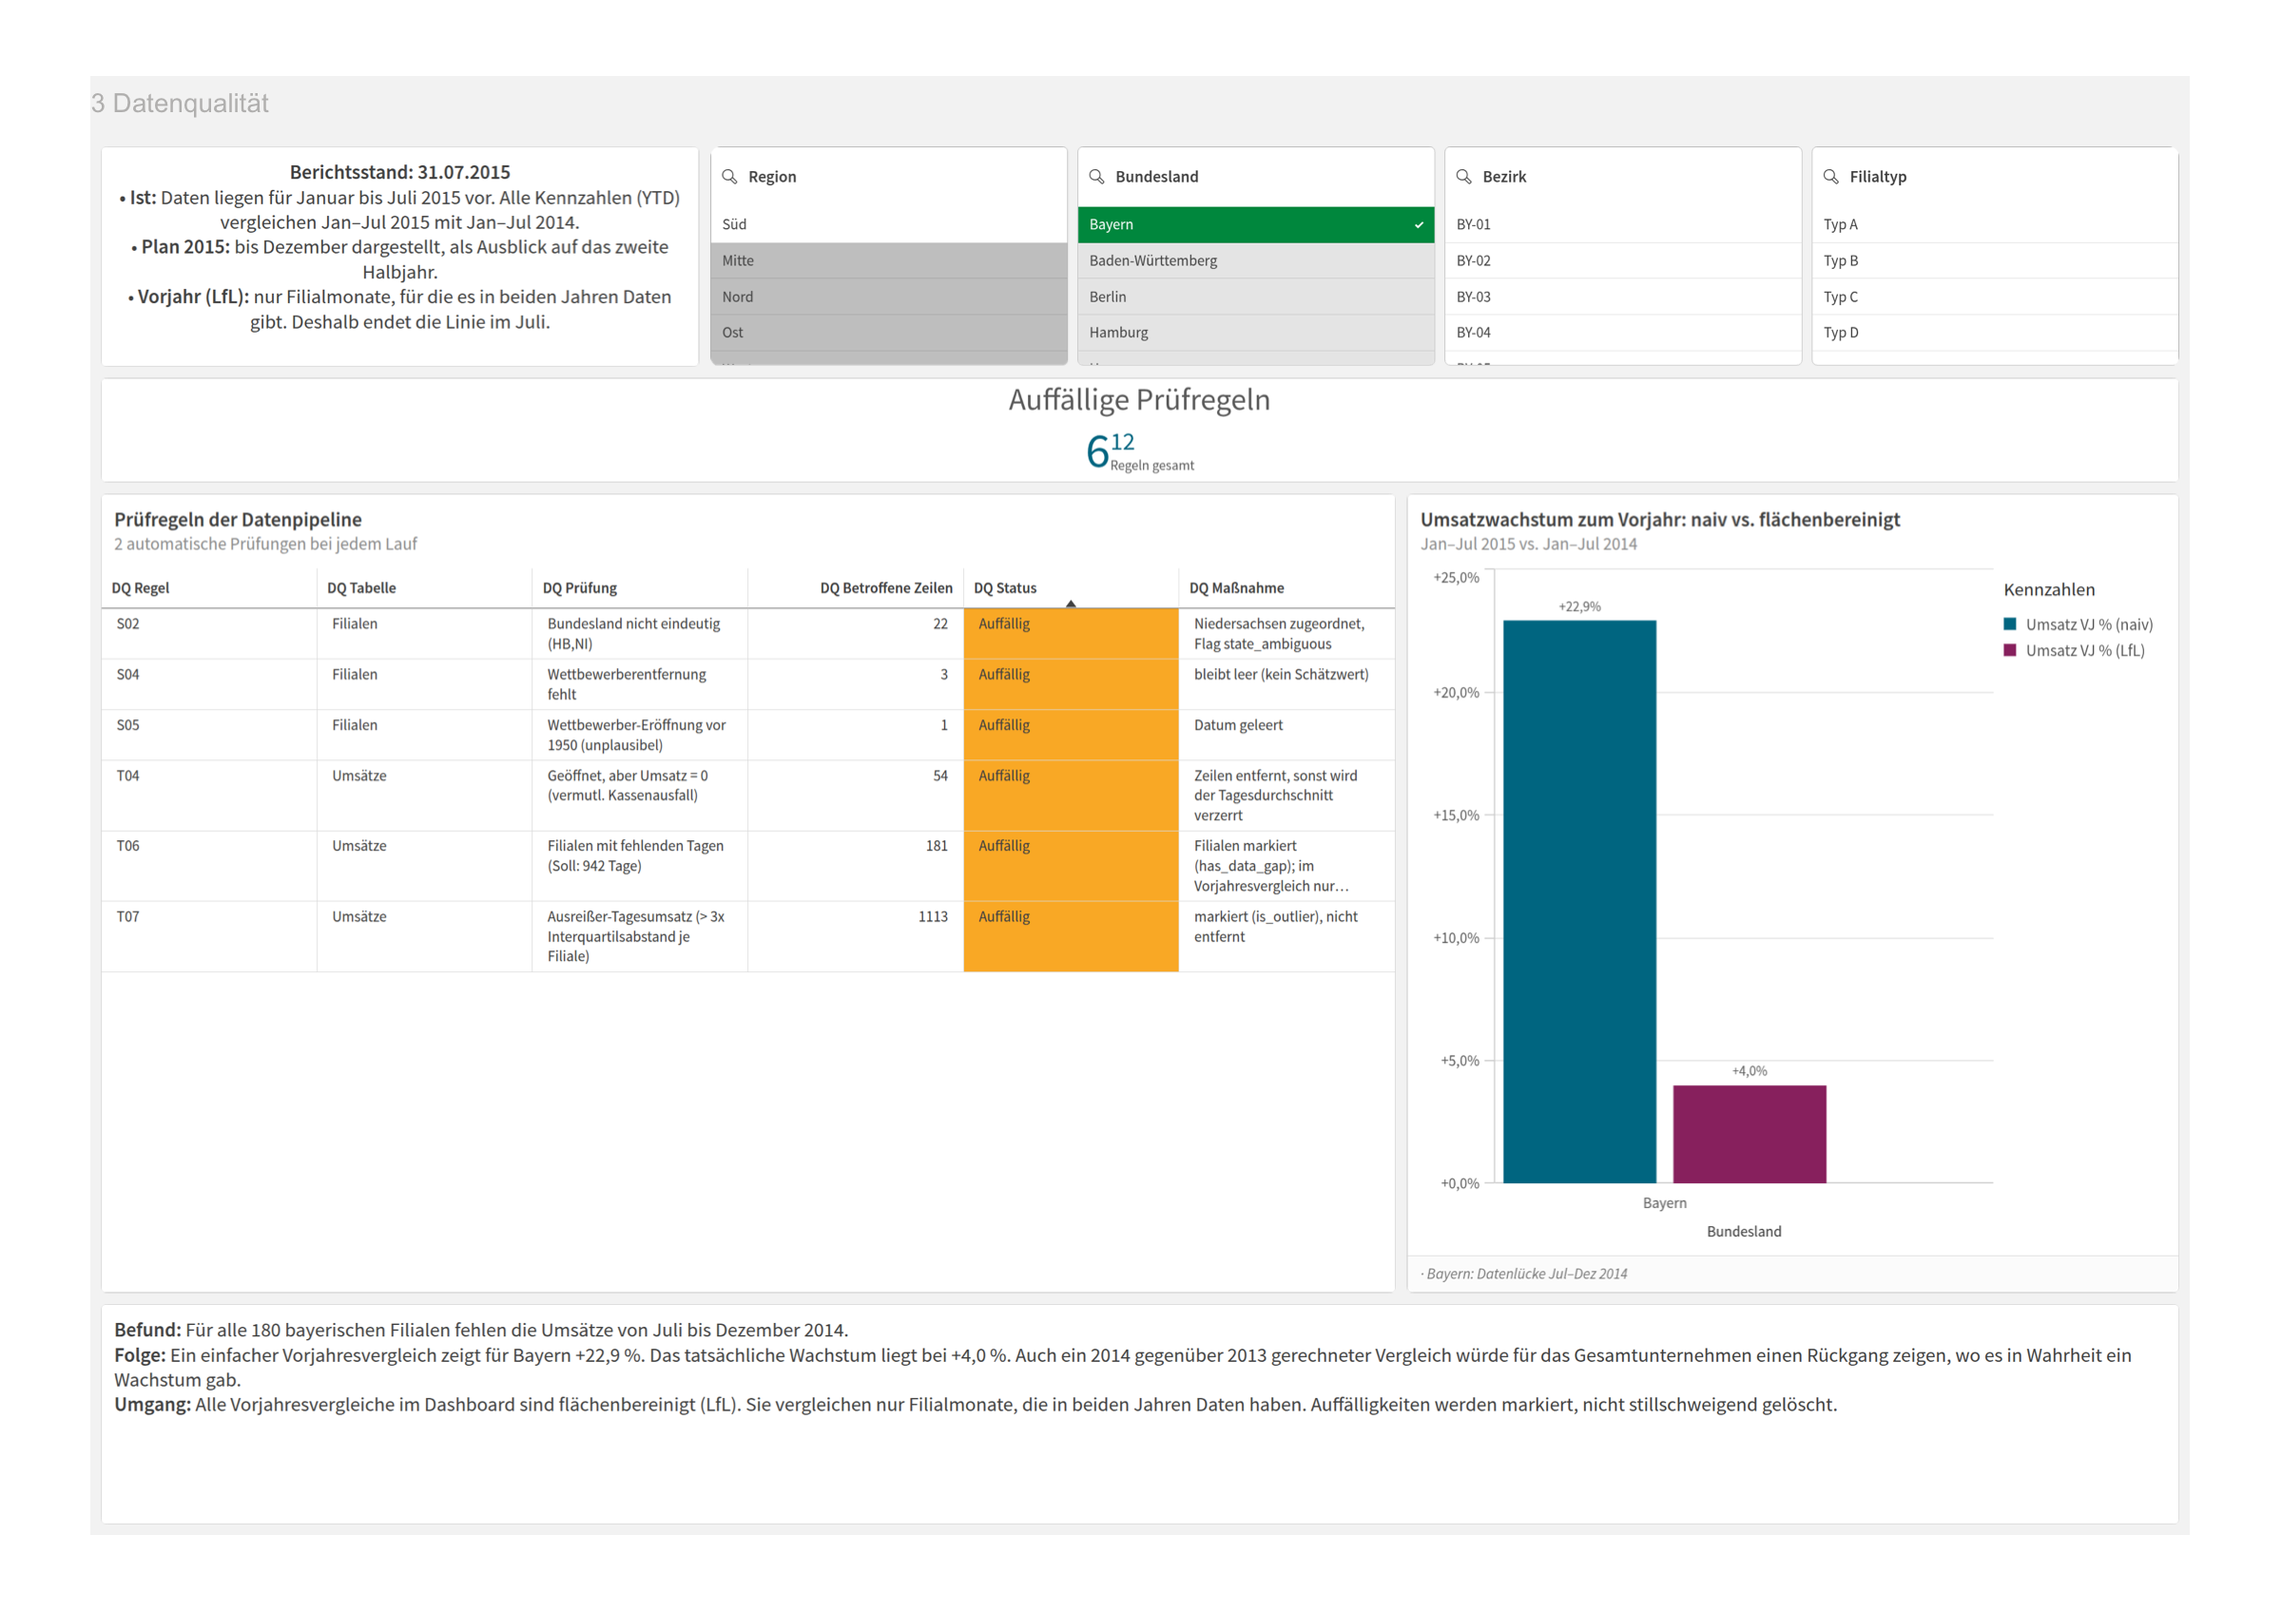
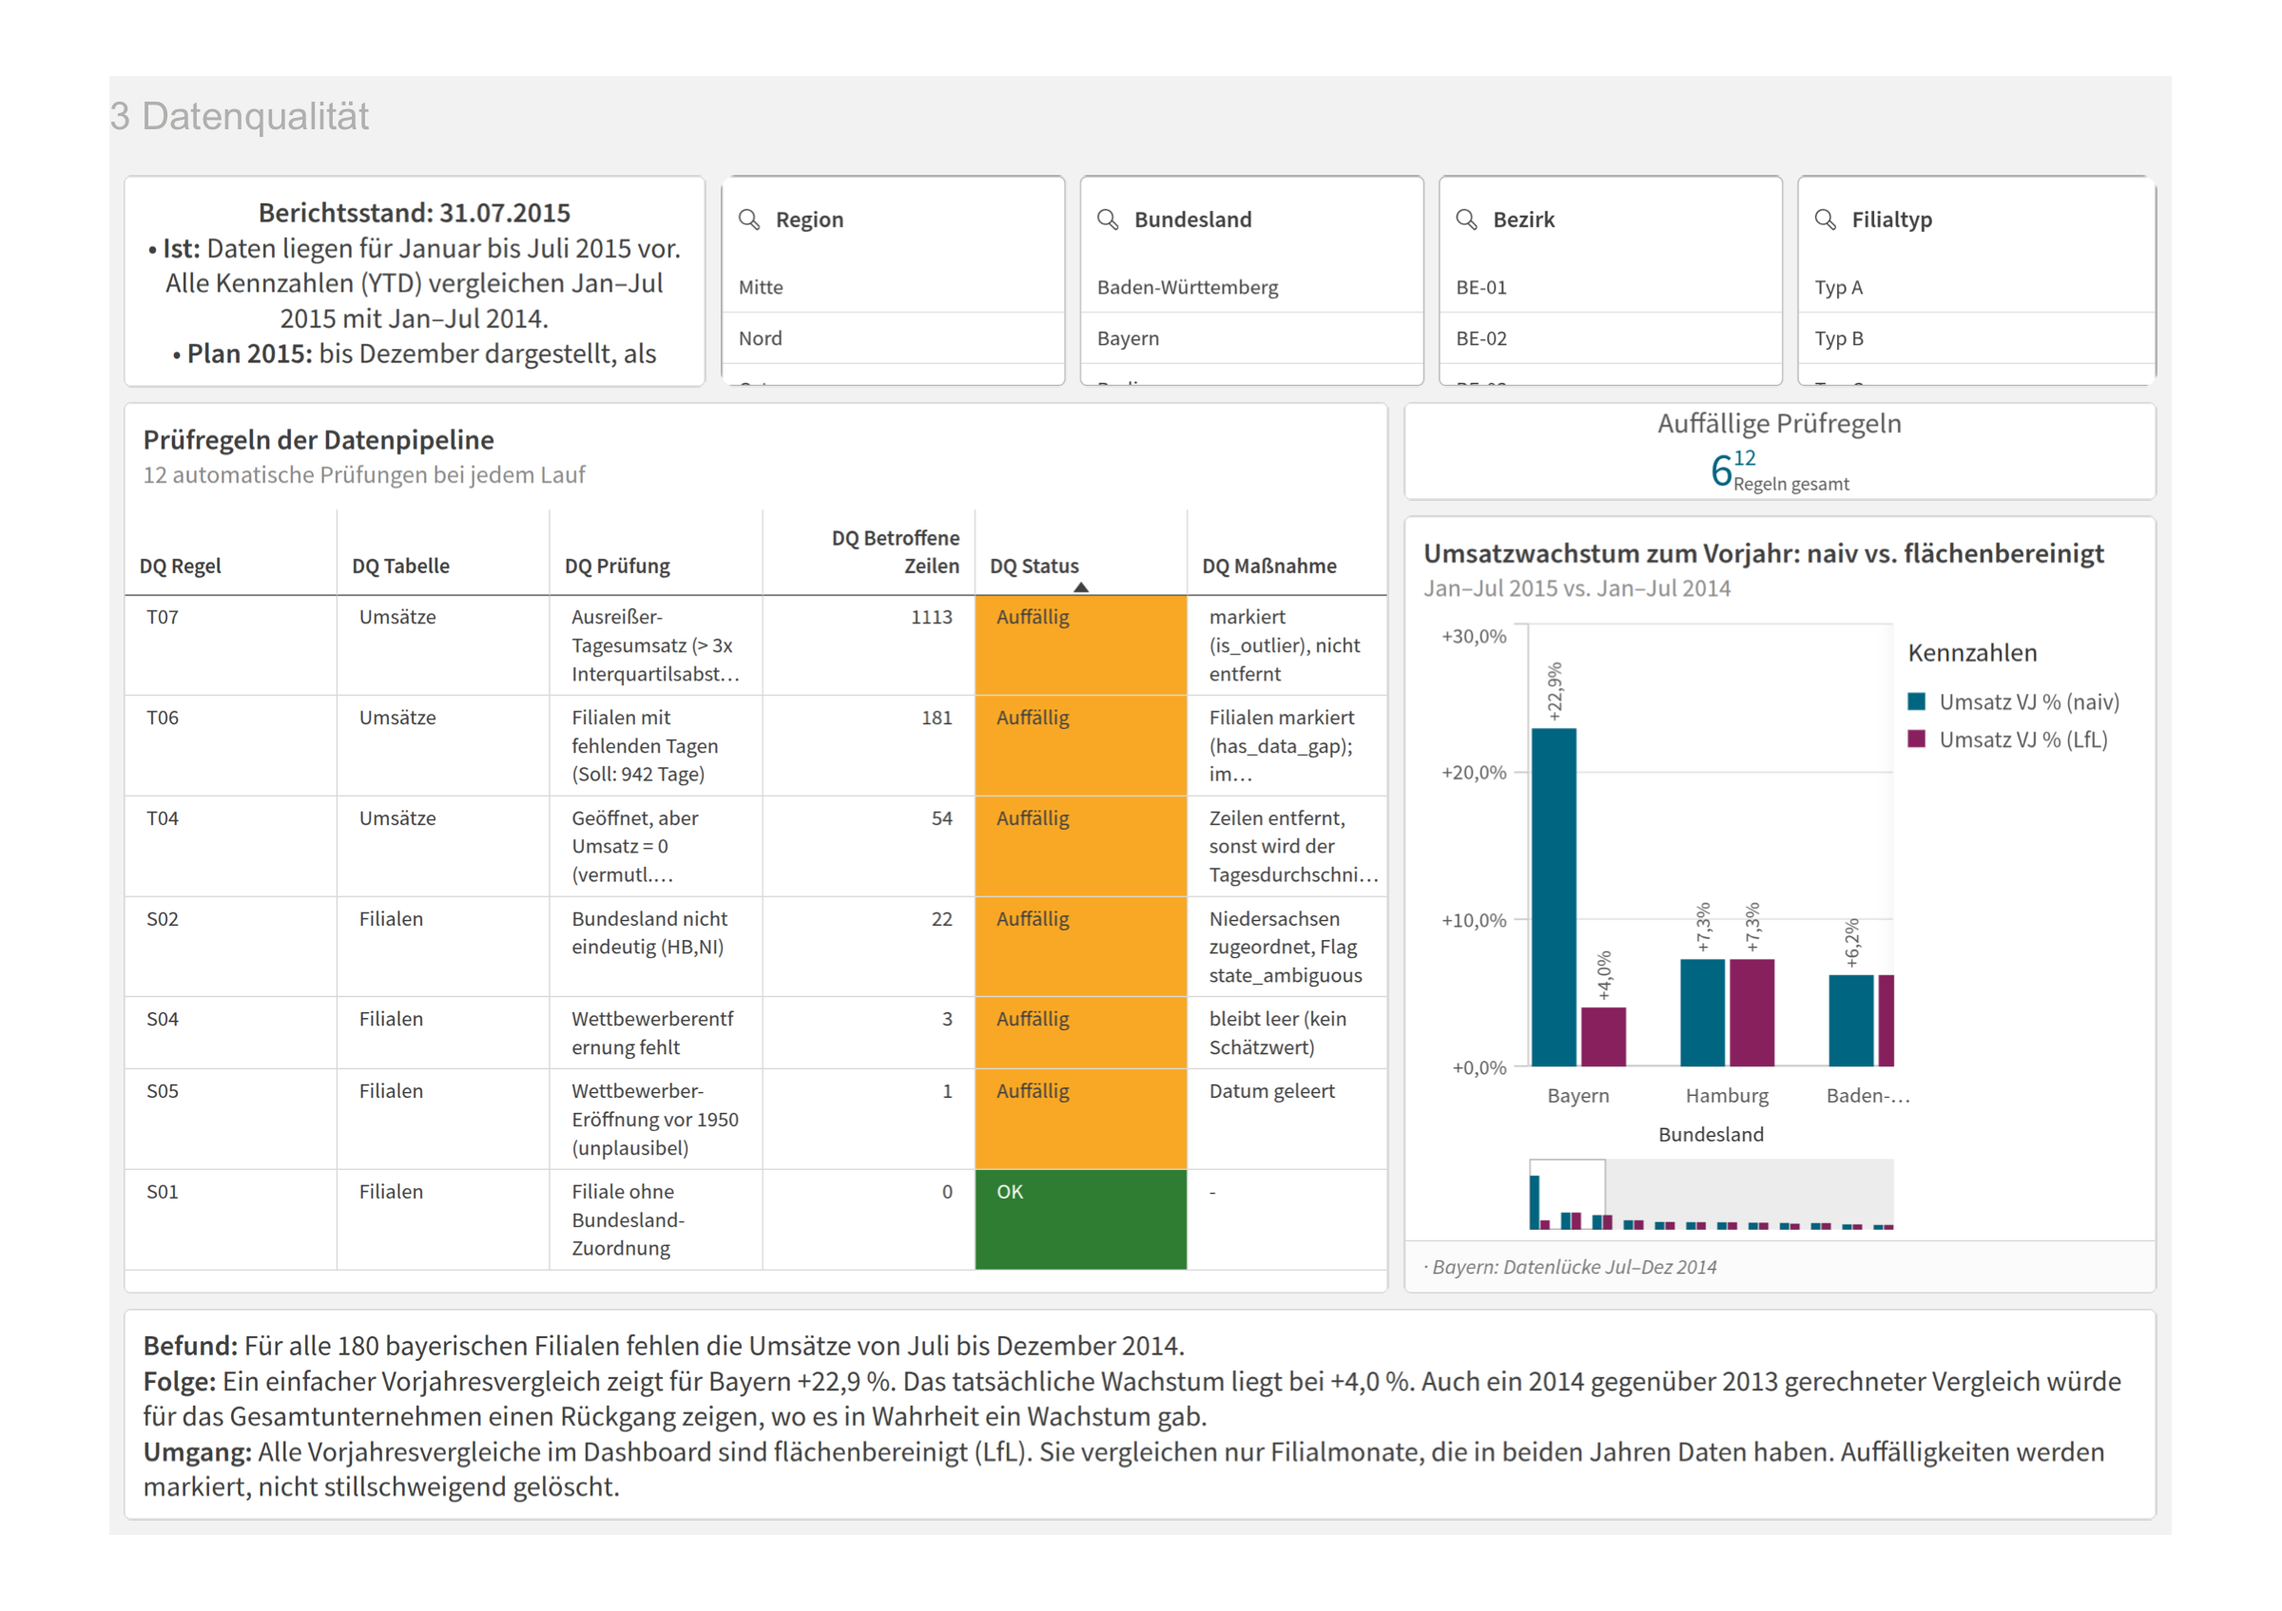
README präzisiert, Screenshot Datenqualität aktualisiert, KI-Aufruf vereinfacht

diff --git a/src/commentary.py b/src/commentary.py
@@ -97,13 +97,10 @@ def llm_comment(client, k: pd.Series) -> str:
         "schwaechste_filiale": {"name": k.weakest_store, "abweichung_plan": round(k.weakest_store_plan_dev, 4)},
         "staerkste_filiale": {"name": k.strongest_store, "abweichung_plan": round(k.strongest_store_plan_dev, 4)},
     }
-    response = client.beta.messages.create(
+    response = client.messages.create(
         model=MODEL,
         max_tokens=2000,
         system=SYSTEM_PROMPT,
-        # bei einer Ablehnung durch Sicherheitsfilter antwortet automatisch ein Ersatzmodell
-        betas=["server-side-fallback-2026-07-01"],
-        fallbacks="default",
         messages=[{
             "role": "user",
             "content": "Kennzahlen (Anteile als Dezimalzahl, 0.012 = 1,2 %):\n"

diff --git a/README.md b/README.md
@@ -5,10 +5,11 @@
 Portfolio-Projekt: Steuerungscockpit für die Vertriebsleitung und den Außendienst einer
 Drogeriemarktkette auf Basis echter Filialdaten von **1.115 Rossmann-Filialen (2013–2015)**.
 Von der Datenaufbereitung über Datenqualitätsprüfung und Datenmodell bis zum Qlik-Dashboard
-mit Handlungsempfehlungen, ergänzt um KI-generierte Bezirkskommentare.
+mit Handlungsempfehlungen, ergänzt um automatisch erzeugte Bezirkskommentare (regelbasiert,
+optional über die Claude API).
 
 **Tools:** Qlik Sense (Ladeskript, Set Analysis, Master-Elemente) · Python (pandas) ·
-SQL (SQLite, CTEs, Fensterfunktionen) · REST-API (Open-Meteo) · Claude API · uv · Git
+SQL (SQLite, CTEs, Fensterfunktionen) · REST-API (Open-Meteo) · Claude API (optional) · uv · Git
 
 ## Fragestellungen
 
@@ -29,17 +30,18 @@ Berichtszeitraum: Januar bis Juli 2015 (YTD), Vergleich mit Januar bis Juli 2014
    Kundenrückgang im Außendienst priorisieren (Blatt *Außendienst*).
 2. **Plan knapp verfehlt (−0,6 %).** Nur Region Nord liegt über Plan (+0,3 %). Süd (−1,1 %) und
    West (−0,9 %) liegen am deutlichsten darunter. 41 von 60 Bezirken liegen unter Plan, in 36 Bezirken sinkt die Kundenzahl.
-3. **Aktionen wirken vor allem über Frequenz.** An Promo-Tagen liegt der Umsatz je Filiale 38,8 %
-   höher. Bei Filialtyp A ist der Effekt am größten (+43 % Umsatz, +26 % Kunden), bei Typ B am
-   kleinsten (+18 %).
+3. **Aktionen bringen vor allem mehr Kunden.** An Promo-Tagen liegt der Umsatz je Filiale 38,8 %
+   höher: +21 % Kunden und +15 % Durchschnittsbon. Bei Filialtyp A ist der Effekt am größten
+   (+43 % Umsatz, +26 % Kunden), bei Typ B am kleinsten (+18 %).
    → *Empfehlung:* Promo-Budget bevorzugt in Typ-A- und Typ-D-Filialen einsetzen. Da Aktionen
    Frequenz bringen, sind sie der direkte Hebel für Punkt 1.
 4. **Dauerpromotion ohne erkennbaren Nutzen.** Filialen mit Dauerpromotion („Promo2“) machen
    11 % weniger Umsatz je Tag. Das ist vermutlich ein Auswahleffekt, weil eher schwächere
    Filialen teilnehmen, und kein Beleg für Wirkung.
    → *Empfehlung:* vor einer Ausweitung mit einem Test-/Kontrollgruppen-Vergleich prüfen.
-5. **Wettbewerbsnähe = Innenstadtlage.** Filialen mit einem Wettbewerber im Umkreis von 500 m
-   setzen am meisten um, haben aber den kleinsten Bon (8,05 € gegenüber 10,38 € bei über 10 km).
+5. **Wettbewerbsnähe: hohe Frequenz, kleiner Bon.** Filialen mit einem Wettbewerber im Umkreis
+   von 500 m setzen am meisten um, haben aber den kleinsten Bon (8,05 € gegenüber 10,38 € bei über
+   10 km). Vermutlich sind das überwiegend Innenstadtlagen (Lage ist im Datensatz nicht enthalten).
    → *Empfehlung:* In Innenstadtfilialen den Bon gezielt steigern, etwa über Zweitplatzierungen
    und die Kassenzone.
 6. **Wetter hat kaum Einfluss.** An Regentagen liegt der Umsatz je Filiale nur 0,9 % niedriger
@@ -47,7 +49,7 @@ Berichtszeitraum: Januar bis Juli 2015 (YTD), Vergleich mit Januar bis Juli 2014
 
 ## Dashboard
 
-Aufbau in Qlik Sense Cloud, Schritt-für-Schritt-Anleitung: [`docs/qlik_anleitung.md`](docs/qlik_anleitung.md)
+Umgesetzt in Qlik Sense (Qlik Cloud), Ladeskript: [`qlik/load_script.qvs`](qlik/load_script.qvs)
 
 | Blatt | Inhalt |
 |---|---|
@@ -123,7 +125,7 @@ Die wichtigsten Befunde:
 Nach dem Laden prüft die Pipeline außerdem die referentielle Integrität: Jeder Umsatz hat eine
 Filiale, ein Datum und einen Wetterwert.
 
-## KI-gestützte Bezirkskommentare
+## Automatische Bezirkskommentare (KI optional)
 
 `src/commentary.py` schreibt für jeden der 60 Bezirke einen Kommentar mit drei Sätzen: Lage,
 Ursache und Handlungsempfehlung. Im Außendienst-Blatt erscheint er für den ausgewählten Bezirk.
@@ -135,7 +137,7 @@ Ursache und Handlungsempfehlung. Im Außendienst-Blatt erscheint er für den aus
   Verbot unbelegter Ursachen (siehe `SYSTEM_PROMPT`).
 - **Fallback:** Ohne API-Schlüssel entstehen regelbasierte Kommentare, damit das Dashboard immer
   vollständig ist. Die Spalte *Kommentar Quelle* zeigt im Dashboard, ob ein Text von der KI oder
-  von den Regeln stammt.
+  von den Regeln stammt. Die Screenshots zeigen die regelbasierte Variante.
 - **Datenschutz:** An die API gehen nur aggregierte Bezirkskennzahlen, keine personenbezogenen Daten.
 
 ## Datenquelle
@@ -143,7 +145,7 @@ Ursache und Handlungsempfehlung. Im Außendienst-Blatt erscheint er für den aus
 | Datei | Quelle |
 |---|---|
 | `train.csv`, `store.csv` | Kaggle-Wettbewerb [Rossmann Store Sales](https://www.kaggle.com/competitions/rossmann-store-sales/data) |
-| `store_states.csv`, `state_names.csv` | Bundesland je Filiale, Community-Ergänzung zum Wettbewerb (u. a. im [fast.ai-Archiv](https://files.fast.ai/part2/lesson14/rossmann.tgz)) |
+| `store_states.csv` | Bundesland je Filiale, Community-Ergänzung zum Wettbewerb (u. a. im [fast.ai-Archiv](https://files.fast.ai/part2/lesson14/rossmann.tgz)) |
 | `weather_api.csv` | [Open-Meteo Historical Weather API](https://open-meteo.com/en/docs/historical-weather-api), wird von der Pipeline geladen |
 
 Die Rohdaten aus Kaggle sind nicht im Repo, sie müssen nach `data/raw/`.
@@ -175,7 +177,7 @@ sqlite3 -header -column data/processed/sales.db < sql/analysen.sql
 src/            Pipeline (extract_weather, clean, transform, load_to_db, commentary, run_pipeline)
 sql/            schema.sql (Star-Schema), district_kpis.sql (KI-Input), analysen.sql
 qlik/           load_script.qvs (Qlik-Ladeskript)
-docs/           qlik_anleitung.md, screenshots/
+docs/           screenshots/ (Dashboard-Blätter)
 data/raw/       Rohdaten (nicht versioniert, außer Wetter-Cache)
 data/processed/ erzeugte Daten, Datenbank, Qlik-Exporte (nicht versioniert)
 ```

diff --git a/README.en.md b/README.en.md
@@ -5,10 +5,11 @@
 Portfolio project: a steering cockpit for sales management and area managers of a drugstore
 chain, built on real daily sales data from **1,115 Rossmann stores (2013–2015)**. It covers the
 full chain from data preparation, data quality checks and data modelling to a Qlik Sense
-dashboard with recommendations for action, plus AI-generated district commentary.
+dashboard with recommendations for action, plus automatically generated district commentary
+(rule-based, optionally via the Claude API).
 
 **Tools:** Qlik Sense (load script, set analysis, master items) · Python (pandas) ·
-SQL (SQLite, CTEs, window functions) · REST API (Open-Meteo) · Claude API · uv · Git
+SQL (SQLite, CTEs, window functions) · REST API (Open-Meteo) · Claude API (optional) · uv · Git
 
 ## Key findings (Jan–Jul 2015 vs. Jan–Jul 2014)
 
@@ -16,12 +17,14 @@ SQL (SQLite, CTEs, window functions) · REST API (Open-Meteo) · Claude API · u
    driven entirely by average basket (+3.7 %). Customer count −0.4 %.
    → Focus measures on footfall and prioritise districts with the steepest customer decline.
 2. **Slightly below plan (−0.6 %).** Only region North is ahead of plan. 41 of 60 districts are behind.
-3. **Promotions drive footfall.** Promo days generate +38.8 % sales per store, most of all in
-   store type A (+43 % sales, +26 % customers). This makes promotions the most direct lever for finding 1.
+3. **Promotions mainly bring more customers.** Promo days generate +38.8 % sales per store
+   (+21 % customers, +15 % average basket), most of all in store type A (+43 % sales, +26 % customers). This makes promotions the most direct lever for finding 1.
 4. **Continuous promotion ("Promo2") shows no measurable benefit.** Participating stores sell 11 % less
    per day. This is likely a selection effect, so test it with a control group before scaling up.
-5. **Stores close to a competitor are city-centre stores:** highest sales, smallest basket
-   (€8.05 vs. €10.38). Lift basket size with secondary placements and checkout zones.
+5. **Competitor proximity: high footfall, small basket.** Stores with a competitor within 500 m
+   have the highest sales but the smallest basket (€8.05 vs. €10.38), most likely city-centre
+   locations (location type is not in the data). Lift basket size with secondary placements and
+   checkout zones.
 6. **Weather has hardly any effect** (−0.9 % on rainy days, weather data from an API), so it is
    not a relevant planning factor.
 
@@ -45,9 +48,10 @@ For each district, `src/commentary.py` produces a three-sentence comment coverin
 driver and recommended action. All figures are computed in SQL. The language model only phrases
 them, following a prompt with explicit rules, so it cannot invent numbers. Without an API key,
 a rule-based fallback is used, and the dashboard shows which source produced each comment.
+The screenshots show the rule-based version.
 
 ## Note
 
 The area-manager districts and the 2015 plan figures are **simulated**. Data sources, setup
-and details are in the [German README](README.md). The step-by-step Qlik guide is in
-[`docs/qlik_anleitung.md`](docs/qlik_anleitung.md).
+and details are in the [German README](README.md), dashboard screenshots in
+[`docs/screenshots/`](docs/screenshots/).
